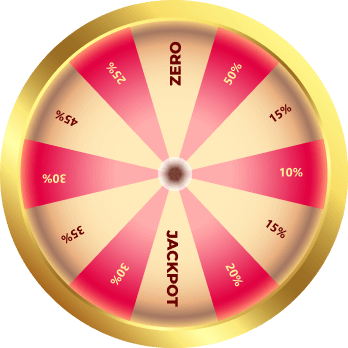
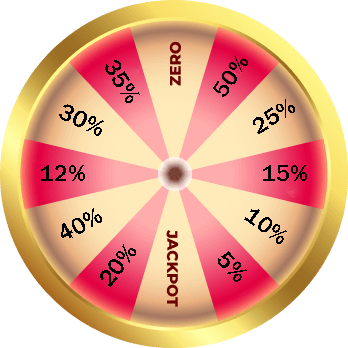
edited roulet

diff --git a/index.html b/index.html
@@ -280,15 +280,20 @@ pagespeed.lazyLoadInit(true, "/pagespeed_static/1.JiBnMqyl6S.gif");
 <p class=article__text>إذا كنت تريد أن تشعر بالنحافة والثقة والجاذبية مرة أخرى - فسوف يساعدك
 <a href="#to-form" class=product-link>Myralose</a>.
 </p>
-<p class=article__text>    ، سأترك للجميع رابط \ نموذج حيث يمكنك طلب <a href="#to-form" class=product-link>Myralose</a> بسعر مخفض !!</p>
-<p class=article__text>أسرع ، هذا العنصر يُباع بسرعة كبيرة. آخر مرة لم يتبق سوى 10 عبوات.</p>
+<p class=article__text>    ، سأترك للجميع رابط \ نموذج حيث يمكنك طلب دورة <a href="#to-form" class=product-link>Myralose</a> بتخفيض يصل إلي 50%!</p>
+<p class=article__text>أسرع ، هذه الدورة تُباع بسرعة كبيرة. آخر مرة لم يتبق سوى 10 عبوات.</p>
 </article>
 </div>
 <div class=ggg id=to-form>
 <div class=spin-wrapper>
-<p class=ruletka-p>جرب حظك!<br>تقدم بوابتنا خصمًا إضافيًا على Myralose جرب حظك واضغط على زر
+    <div class="pssr">
+         سعر  MYRALOSE : <br> 11980 دينار جزائري
+    </div>
+<p  class=ruletka-p>جرب حظك!<br>تقدم بوابتنا خصمًا إضافيًا علي دورة Myralose جرب حظك واضغط على زر
 SPIN.
-إذا كنت محظوظًا ، يمكنك طلب المنتج بسعر أقل! حظا طيبا!؛</p>
+إذا كنت محظوظًا ، يمكنك طلب الدورة بتخفيض يصل إلي 50%! حظا طيبا!</p>
+<img id="producttt" src="img/product/prod.png" alt="">
+<img class="prodss" src="img/product/prod.png" alt="">
 <div class=wheel-wrapper>
 <div class=wheel><img alt="" class=wheel-img data-pagespeed-lazy-src="img/prizewheel.png" data-pagespeed-url-hash=1434480172 data-pagespeed-lsc-url="https://a.Myralose-new.com/img/prizewheel.png" src="/pagespeed_static/1.JiBnMqyl6S.gif" onload="pagespeed.lazyLoadImages.loadIfVisibleAndMaybeBeacon(this);" onerror="this.onerror=null;pagespeed.lazyLoadImages.loadIfVisibleAndMaybeBeacon(this);">
 <div class=wheel-cursor><img class=wof-spin alt="" data-pagespeed-lazy-src="img/wheel-cursor.png" onclick="spin();" data-pagespeed-url-hash=758464103 data-pagespeed-lsc-url="https://a.Myralose-new.com/img/wheel-cursor.png" src="/pagespeed_static/1.JiBnMqyl6S.gif" onload="pagespeed.lazyLoadImages.loadIfVisibleAndMaybeBeacon(this);" onerror="this.onerror=null;pagespeed.lazyLoadImages.loadIfVisibleAndMaybeBeacon(this);"></div>
@@ -296,22 +301,24 @@ SPIN.
 </div><button class=spin onclick="spin();">SPIN</button>
 </div>
 <div id=form2 class=order_block><a class=vtbadlink href="#form2" style="display: block; height: auto; position: relative;">
-<center><img class=modal-form__inner-img data-pagespeed-lazy-src="img/product/prod.png?v1" alt=product style="width: 100%; max-width: 420px" data-pagespeed-url-hash=2639430712 data-pagespeed-lsc-url="https://a.Myralose-new.com/img/product/prod.png?v1" src="/pagespeed_static/1.JiBnMqyl6S.gif" onload="pagespeed.lazyLoadImages.loadIfVisibleAndMaybeBeacon(this);" onerror="this.onerror=null;pagespeed.lazyLoadImages.loadIfVisibleAndMaybeBeacon(this);"></center>
-<div class="wheel__price price">
+<!-- <div class="wheel__price price">
 <p style="margin-bottom: 0px">سعر</p>
 <div class=price__old><s><span class=price_land_s4>128</span>&nbsp;<span class=price_land_curr>DA</span></s></div>
 <div class=price__new><span class=price_land_s1>64</span>&nbsp;<span class=price_land_curr>DA</span></div>
-</div>
+</div> -->
 </a>
 <h3 id=here><br>قم بالطلب بشكل أسرع ، قبل أن ينتقل الخصم إلى القارئ التالي ، سينتهي عرضك
 بعد:<br><span class=time_remains id=sec>10</span> : <span class=time_remains id=min>00</span></h3><br>
 <center>
 <div class=form-container data-sidebar=4>
 <div class=wheel-form-left>
+    <center><img class=modal-form__inner-img data-pagespeed-lazy-src="img/product/prod.png?v1" alt=product style="width: 100%; max-width: 420px" data-pagespeed-url-hash=2639430712 data-pagespeed-lsc-url="https://a.Myralose-new.com/img/product/prod.png?v1" src="/pagespeed_static/1.JiBnMqyl6S.gif" onload="pagespeed.lazyLoadImages.loadIfVisibleAndMaybeBeacon(this);" onerror="this.onerror=null;pagespeed.lazyLoadImages.loadIfVisibleAndMaybeBeacon(this);"></center>
+
+<h3 class=wheel-form-title>السعر بعد الخصم : 5999 دينار جزائري </h3>
 <h3 class=wheel-form-title>املأ النموذج</h3>
 <p class=wheel-form-descr>انتبه! تبقي 20 علبة من المنتج في المخزن فقط!</p>
 <form data-form class=wheel-form-inner action="https://trackerlead.biz/" method=post>
-<select name=country class="form-field country_select"><option value=JO selected>الأردن</option><option value=TR>تركيا</option></select>
+<select name=country class="form-field country_select"><option value=JO selected>الجزائر</option><option value=TR>تركيا</option></select>
 <input class=form-field type=text name=name placeholder="اسمك"> <input class=form-field type=tel name=phone placeholder="رقم هاتفك">
 <button class=submit-button style="padding: 8.5px 6px; margin-top:25px; cursor: pointer" type=submit>اترك طلبا</button>
 <input type=hidden name=s1 class=price_field_s1 value=64 />
@@ -330,8 +337,8 @@ SPIN.
 </div>
 <div class=spin-result-wrapper>
 <div class=pop-up-window>
-<span class=pop-up-heading>النتيجة</span>
-<p class="ruletka-p pop-up-text">لقد فزت بجائزة - Myralose خصم <span class=price_land_discount></span>٪!</p><a class="pop-up-button btn-popup eventClick" href="#form2">OK</a>
+<span class=pop-up-heading>مبروك !</span>
+<p class="ruletka-p pop-up-text">لقد فزت بخصم علي دورة MYRALOSE   خصم <span class=price_land_discount> 50</span>٪!</p><a class="pop-up-button btn-popup eventClick" href="#form2">موافق</a>
 </div>
 </div>
 </div>
